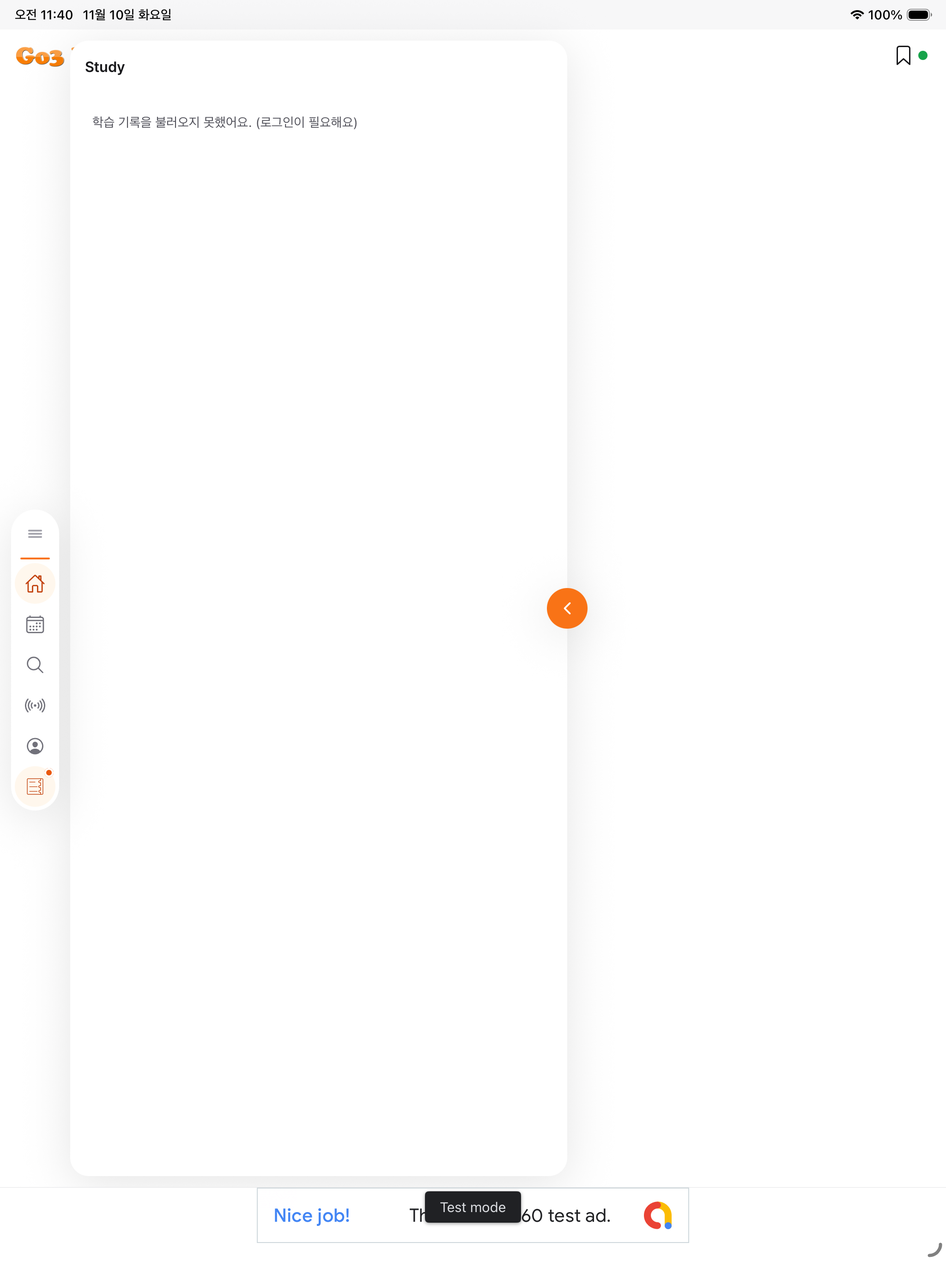
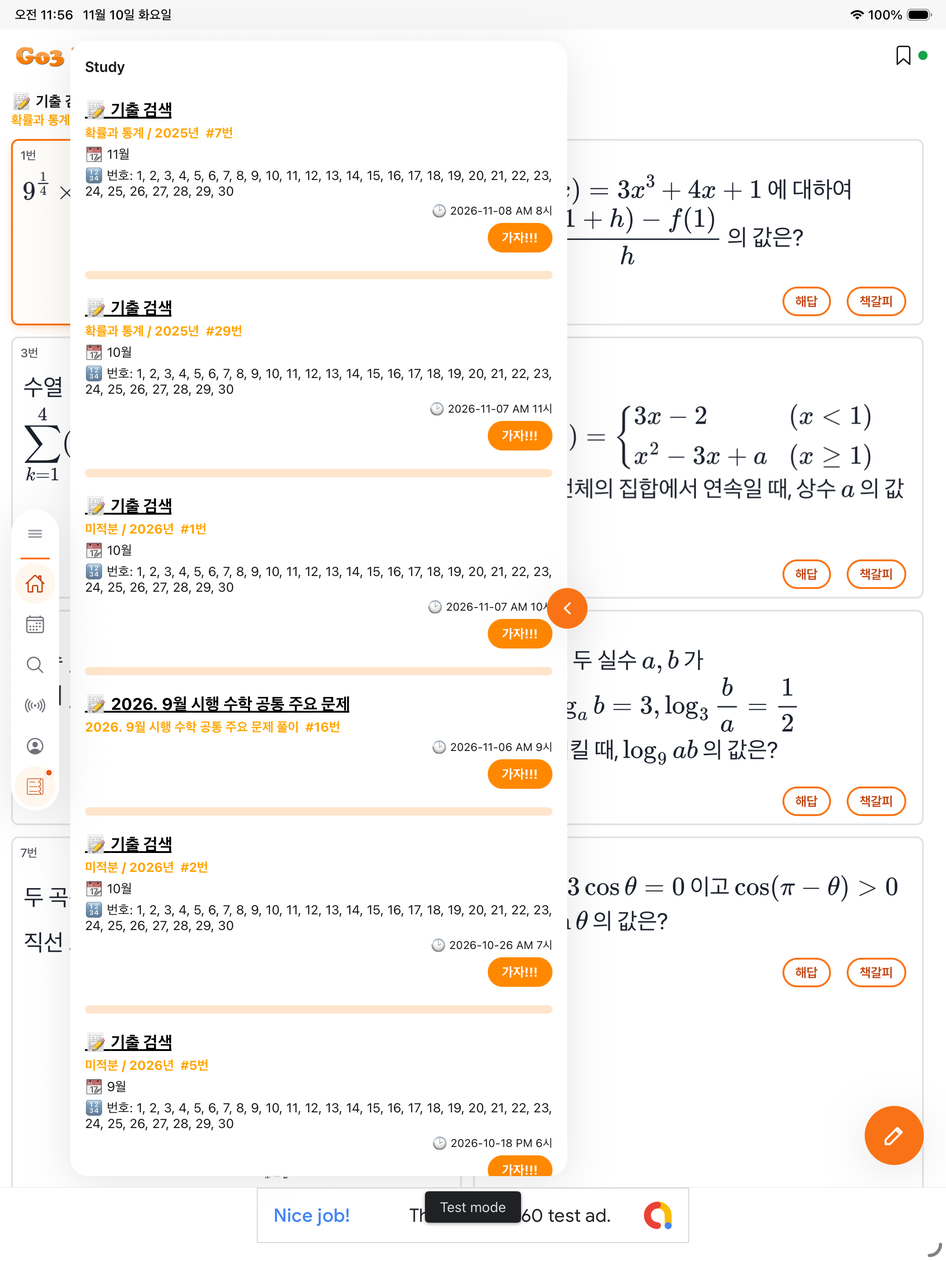
docs(ui-redesign): add logged-in iPad simulator captures (canvas, sheets, modals) and link captures in the diagram

diff --git a/docs/ui-structure/ui-structure.html b/docs/ui-structure/ui-structure.html
@@ -108,6 +108,10 @@
   <h2>6. 기계 판독용 JSON</h2>
   <div class="tools"><button type="button" id="dlJson">ui-structure.json 내려받기</button><span class="hint">스펙 §5.2 형식. 위 표와 같은 데이터에서 만든다.</span></div>
   <details><summary>JSON 보기</summary><pre id="jsonSrc"></pre></details>
+
+  <h2>7. 캡처 (시뮬레이터)</h2>
+  <p class="desc">모두 iOS 26.4 시뮬레이터 캡처다. 실기기 캡처는 없다. 목록과 조건은 <code>docs/ui-redesign/captures/01/manifest.md</code>.</p>
+  <div style="display:grid;grid-template-columns:repeat(auto-fill,minmax(180px,1fr));gap:12px"><figure style="margin:0"><a href="../ui-redesign/captures/01/ipad-sim-welcome-before.png"><img loading="lazy" src="../ui-redesign/captures/01/ipad-sim-welcome-before.png" alt="Welcome (로그인)" style="width:100%;border:1px solid var(--line);border-radius:8px"></a><figcaption style="font-size:12px"><code>welcome</code> · Welcome (로그인) · ipad-sim</figcaption></figure><figure style="margin:0"><a href="../ui-redesign/captures/01/phone-sim-welcome-before.png"><img loading="lazy" src="../ui-redesign/captures/01/phone-sim-welcome-before.png" alt="Welcome (로그인)" style="width:100%;border:1px solid var(--line);border-radius:8px"></a><figcaption style="font-size:12px"><code>welcome</code> · Welcome (로그인) · phone-sim</figcaption></figure><figure style="margin:0"><a href="../ui-redesign/captures/01/ipad-sim-notebook-before.png"><img loading="lazy" src="../ui-redesign/captures/01/ipad-sim-notebook-before.png" alt="문제 풀이 캔버스" style="width:100%;border:1px solid var(--line);border-radius:8px"></a><figcaption style="font-size:12px"><code>notebook</code> · 문제 풀이 캔버스 · ipad-sim</figcaption></figure><figure style="margin:0"><a href="../ui-redesign/captures/01/ipad-sim-notebook-landscape-before.png"><img loading="lazy" src="../ui-redesign/captures/01/ipad-sim-notebook-landscape-before.png" alt="문제 풀이 캔버스 (가로)" style="width:100%;border:1px solid var(--line);border-radius:8px"></a><figcaption style="font-size:12px"><code>notebook</code> · 문제 풀이 캔버스 (가로) · ipad-sim</figcaption></figure><figure style="margin:0"><a href="../ui-redesign/captures/01/ipad-sim-agent_home-before.png"><img loading="lazy" src="../ui-redesign/captures/01/ipad-sim-agent_home-before.png" alt="에이전트 홈 (Stage)" style="width:100%;border:1px solid var(--line);border-radius:8px"></a><figcaption style="font-size:12px"><code>agent_home</code> · 에이전트 홈 (Stage) · ipad-sim</figcaption></figure><figure style="margin:0"><a href="../ui-redesign/captures/01/phone-sim-profile-before.png"><img loading="lazy" src="../ui-redesign/captures/01/phone-sim-profile-before.png" alt="내 정보 탭" style="width:100%;border:1px solid var(--line);border-radius:8px"></a><figcaption style="font-size:12px"><code>profile</code> · 내 정보 탭 · phone-sim</figcaption></figure><figure style="margin:0"><a href="../ui-redesign/captures/01/phone-sim-timeline_index-before.png"><img loading="lazy" src="../ui-redesign/captures/01/phone-sim-timeline_index-before.png" alt="History" style="width:100%;border:1px solid var(--line);border-radius:8px"></a><figcaption style="font-size:12px"><code>timeline_index</code> · History · phone-sim</figcaption></figure><figure style="margin:0"><a href="../ui-redesign/captures/01/phone-sim-search_index-before.png"><img loading="lazy" src="../ui-redesign/captures/01/phone-sim-search_index-before.png" alt="검색" style="width:100%;border:1px solid var(--line);border-radius:8px"></a><figcaption style="font-size:12px"><code>search_index</code> · 검색 · phone-sim</figcaption></figure><figure style="margin:0"><a href="../ui-redesign/captures/01/phone-sim-chat_index-before.png"><img loading="lazy" src="../ui-redesign/captures/01/phone-sim-chat_index-before.png" alt="Study Log" style="width:100%;border:1px solid var(--line);border-radius:8px"></a><figcaption style="font-size:12px"><code>chat_index</code> · Study Log · phone-sim</figcaption></figure><figure style="margin:0"><a href="../ui-redesign/captures/01/phone-sim-diary_index-before.png"><img loading="lazy" src="../ui-redesign/captures/01/phone-sim-diary_index-before.png" alt="Diary" style="width:100%;border:1px solid var(--line);border-radius:8px"></a><figcaption style="font-size:12px"><code>diary_index</code> · Diary · phone-sim</figcaption></figure><figure style="margin:0"><a href="../ui-redesign/captures/01/ipad-sim-chat_rail-before.png"><img loading="lazy" src="../ui-redesign/captures/01/ipad-sim-chat_rail-before.png" alt="세로 pill 툴바" style="width:100%;border:1px solid var(--line);border-radius:8px"></a><figcaption style="font-size:12px"><code>chat_rail</code> · 세로 pill 툴바 · ipad-sim</figcaption></figure><figure style="margin:0"><a href="../ui-redesign/captures/01/ipad-sim-dock_timeline-before.png"><img loading="lazy" src="../ui-redesign/captures/01/ipad-sim-dock_timeline-before.png" alt="Study dock" style="width:100%;border:1px solid var(--line);border-radius:8px"></a><figcaption style="font-size:12px"><code>dock_timeline</code> · Study dock · ipad-sim</figcaption></figure><figure style="margin:0"><a href="../ui-redesign/captures/01/ipad-sim-dock_notice-before.png"><img loading="lazy" src="../ui-redesign/captures/01/ipad-sim-dock_notice-before.png" alt="Diary dock" style="width:100%;border:1px solid var(--line);border-radius:8px"></a><figcaption style="font-size:12px"><code>dock_notice</code> · Diary dock · ipad-sim</figcaption></figure><figure style="margin:0"><a href="../ui-redesign/captures/01/ipad-sim-dock_search-before.png"><img loading="lazy" src="../ui-redesign/captures/01/ipad-sim-dock_search-before.png" alt="검색 dock" style="width:100%;border:1px solid var(--line);border-radius:8px"></a><figcaption style="font-size:12px"><code>dock_search</code> · 검색 dock · ipad-sim</figcaption></figure><figure style="margin:0"><a href="../ui-redesign/captures/01/ipad-sim-dock_profile-before.png"><img loading="lazy" src="../ui-redesign/captures/01/ipad-sim-dock_profile-before.png" alt="내 정보 dock" style="width:100%;border:1px solid var(--line);border-radius:8px"></a><figcaption style="font-size:12px"><code>dock_profile</code> · 내 정보 dock · ipad-sim</figcaption></figure><figure style="margin:0"><a href="../ui-redesign/captures/01/ipad-sim-dock_chat-before.png"><img loading="lazy" src="../ui-redesign/captures/01/ipad-sim-dock_chat-before.png" alt="Study Log dock" style="width:100%;border:1px solid var(--line);border-radius:8px"></a><figcaption style="font-size:12px"><code>dock_chat</code> · Study Log dock · ipad-sim</figcaption></figure><figure style="margin:0"><a href="../ui-redesign/captures/01/ipad-sim-canvas_toolbar-before.png"><img loading="lazy" src="../ui-redesign/captures/01/ipad-sim-canvas_toolbar-before.png" alt="캔버스 하단 툴바" style="width:100%;border:1px solid var(--line);border-radius:8px"></a><figcaption style="font-size:12px"><code>canvas_toolbar</code> · 캔버스 하단 툴바 · ipad-sim</figcaption></figure><figure style="margin:0"><a href="../ui-redesign/captures/01/ipad-sim-concept_sheet-before.png"><img loading="lazy" src="../ui-redesign/captures/01/ipad-sim-concept_sheet-before.png" alt="개념 검색 시트" style="width:100%;border:1px solid var(--line);border-radius:8px"></a><figcaption style="font-size:12px"><code>concept_sheet</code> · 개념 검색 시트 · ipad-sim</figcaption></figure><figure style="margin:0"><a href="../ui-redesign/captures/01/ipad-sim-clear_confirm-before.png"><img loading="lazy" src="../ui-redesign/captures/01/ipad-sim-clear_confirm-before.png" alt="전체 지우기 확인" style="width:100%;border:1px solid var(--line);border-radius:8px"></a><figcaption style="font-size:12px"><code>clear_confirm</code> · 전체 지우기 확인 · ipad-sim</figcaption></figure><figure style="margin:0"><a href="../ui-redesign/captures/01/ipad-sim-pencil_popover-before.png"><img loading="lazy" src="../ui-redesign/captures/01/ipad-sim-pencil_popover-before.png" alt="펜 설정 팝오버" style="width:100%;border:1px solid var(--line);border-radius:8px"></a><figcaption style="font-size:12px"><code>pencil_popover</code> · 펜 설정 팝오버 · ipad-sim</figcaption></figure><figure style="margin:0"><a href="../ui-redesign/captures/01/ipad-sim-concept_detail-before.png"><img loading="lazy" src="../ui-redesign/captures/01/ipad-sim-concept_detail-before.png" alt="개념 설명 모달" style="width:100%;border:1px solid var(--line);border-radius:8px"></a><figcaption style="font-size:12px"><code>concept_detail</code> · 개념 설명 모달 · ipad-sim</figcaption></figure><figure style="margin:0"><a href="../ui-redesign/captures/01/ipad-sim-nb_list_modal-before.png"><img loading="lazy" src="../ui-redesign/captures/01/ipad-sim-nb_list_modal-before.png" alt="문제 목록 모달" style="width:100%;border:1px solid var(--line);border-radius:8px"></a><figcaption style="font-size:12px"><code>nb_list_modal</code> · 문제 목록 모달 · ipad-sim</figcaption></figure><figure style="margin:0"><a href="../ui-redesign/captures/01/ipad-sim-nb_answer_sheet-before.png"><img loading="lazy" src="../ui-redesign/captures/01/ipad-sim-nb_answer_sheet-before.png" alt="해답 시트" style="width:100%;border:1px solid var(--line);border-radius:8px"></a><figcaption style="font-size:12px"><code>nb_answer_sheet</code> · 해답 시트 · ipad-sim</figcaption></figure><figure style="margin:0"><a href="../ui-redesign/captures/01/ipad-sim-nb_workout_sheet-before.png"><img loading="lazy" src="../ui-redesign/captures/01/ipad-sim-nb_workout_sheet-before.png" alt="내 풀이 시트" style="width:100%;border:1px solid var(--line);border-radius:8px"></a><figcaption style="font-size:12px"><code>nb_workout_sheet</code> · 내 풀이 시트 · ipad-sim</figcaption></figure><figure style="margin:0"><a href="../ui-redesign/captures/01/ipad-sim-agent_home-closed-before.png"><img loading="lazy" src="../ui-redesign/captures/01/ipad-sim-agent_home-closed-before.png" alt="에이전트 홈 (dock 닫힘)" style="width:100%;border:1px solid var(--line);border-radius:8px"></a><figcaption style="font-size:12px"><code>agent_home</code> · 에이전트 홈 (dock 닫힘) · ipad-sim</figcaption></figure><figure style="margin:0"><a href="../ui-redesign/captures/01/ipad-sim-agent_home-problems-before.png"><img loading="lazy" src="../ui-redesign/captures/01/ipad-sim-agent_home-problems-before.png" alt="에이전트 홈 (Stage 문제 목록)" style="width:100%;border:1px solid var(--line);border-radius:8px"></a><figcaption style="font-size:12px"><code>agent_home</code> · 에이전트 홈 (Stage 문제 목록) · ipad-sim</figcaption></figure></div>
 </main>
 
 <script src="https://cdn.jsdelivr.net/npm/mermaid@11.4.1/dist/mermaid.min.js"></script>

diff --git a/docs/ui-redesign/captures/01/manifest.md b/docs/ui-redesign/captures/01/manifest.md
@@ -14,9 +14,10 @@
 ## 조건
 
 - 빌드: `feat/study-note` @ `76b99e3`의 Debug 빌드(`xcodebuild`, `IPHONEOS_DEPLOYMENT_TARGET=15.1` 덮어쓰기), Metro 개발 서버 연결.
-- 로그인: 개발 빌드 전용 "로그인 없이 둘러보기". 계정 데이터가 없어 목록 화면은 빈 상태·오류 문구가 찍혔다. 하단의 광고 띠는 테스트 광고다.
+- 로그인: 1차는 개발 빌드 전용 "로그인 없이 둘러보기"(Phone 6장, iPad의 로그인·홈·Diary·검색·내 정보·Study Log dock). 계정 데이터가 없어 빈 상태·오류 문구가 찍혔다. 2차는 사용자가 시뮬레이터에 직접 로그인한 뒤 iPad에서 Study dock, 문제 목록, 캔버스와 그 오버레이를 찍었다. 하단의 광고 띠는 테스트 광고다.
+- 캔버스에서는 필기·저장·전체 지우기 확인을 하지 않았다. 문제 목록을 연 것 외에 계정 데이터를 바꾸는 동작은 없다.
 - iOS 27.2 시뮬레이터에서는 앱이 실행 직후 종료된다(`UIApplicationEvaluateRuntimeIssueForNoSceneLifecycleAdoption`). 그래서 iOS 26.4 시뮬레이터를 썼다.
-- `agent_home`, `chat_rail`, `dock_timeline`은 같은 화면 한 장이다(홈 진입 시 Study dock이 기본으로 열린다).
+- `agent_home`과 `chat_rail`은 같은 화면 한 장이다. `notebook`과 `canvas_toolbar`도 같은 한 장이다.
 
 ## 목록
 
@@ -24,73 +25,74 @@
 |---|---|---|---|---|---|---|---|
 | welcome | Welcome (로그인) | ipad-sim | 세로 | `ipad-sim-welcome-before.png` | 시뮬레이터 | 완료 | — |
 | welcome | Welcome (로그인) | phone-sim | 세로 | `phone-sim-welcome-before.png` | 시뮬레이터 | 완료 | — |
-| auth_callback | OAuth 콜백 | ipad-sim | 세로 | `ipad-sim-auth_callback-before.png` | 시뮬레이터 | blocked | 미촬영: 게스트 모드에는 계정 데이터가 없다(iPad 검색 → "가자!!!"에서 문제 목록이 뜨지 않음을 확인). 로그인 후 다시 시도 |
-| auth_callback | OAuth 콜백 | phone-sim | 세로 | `phone-sim-auth_callback-before.png` | 시뮬레이터 | blocked | 미촬영: 게스트 모드에는 계정 데이터가 없다(iPad 검색 → "가자!!!"에서 문제 목록이 뜨지 않음을 확인). 로그인 후 다시 시도 |
-| public_questions | 공개 문제 목록 | ipad-sim | 세로 | `ipad-sim-public_questions-before.png` | 시뮬레이터 | blocked | 미촬영: 게스트 모드에는 계정 데이터가 없다(iPad 검색 → "가자!!!"에서 문제 목록이 뜨지 않음을 확인). 로그인 후 다시 시도 |
-| public_questions | 공개 문제 목록 | phone-sim | 세로 | `phone-sim-public_questions-before.png` | 시뮬레이터 | blocked | 미촬영: 게스트 모드에는 계정 데이터가 없다(iPad 검색 → "가자!!!"에서 문제 목록이 뜨지 않음을 확인). 로그인 후 다시 시도 |
-| public_solution | 공개 해답 | ipad-sim | 세로 | `ipad-sim-public_solution-before.png` | 시뮬레이터 | blocked | 미촬영: 게스트 모드에는 계정 데이터가 없다(iPad 검색 → "가자!!!"에서 문제 목록이 뜨지 않음을 확인). 로그인 후 다시 시도 |
-| public_solution | 공개 해답 | phone-sim | 세로 | `phone-sim-public_solution-before.png` | 시뮬레이터 | blocked | 미촬영: 게스트 모드에는 계정 데이터가 없다(iPad 검색 → "가자!!!"에서 문제 목록이 뜨지 않음을 확인). 로그인 후 다시 시도 |
-| notebook | 문제 풀이 캔버스 | ipad-sim | 세로 | `ipad-sim-notebook-before.png` | 시뮬레이터 | blocked | 미촬영: 게스트 모드에는 계정 데이터가 없다(iPad 검색 → "가자!!!"에서 문제 목록이 뜨지 않음을 확인). 로그인 후 다시 시도 |
-| notebook | 문제 풀이 캔버스 (가로) | ipad-sim | 가로 | `ipad-sim-notebook-landscape-before.png` | 시뮬레이터 | blocked | 미촬영: 게스트 모드에는 계정 데이터가 없다(iPad 검색 → "가자!!!"에서 문제 목록이 뜨지 않음을 확인). 로그인 후 다시 시도 |
-| topic_live | 주제 실황 수업 | ipad-sim | 세로 | `ipad-sim-topic_live-before.png` | 시뮬레이터 | blocked | 미촬영: 게스트 모드에는 계정 데이터가 없다(iPad 검색 → "가자!!!"에서 문제 목록이 뜨지 않음을 확인). 로그인 후 다시 시도 |
-| topic_live | 주제 실황 수업 (가로) | ipad-sim | 가로 | `ipad-sim-topic_live-landscape-before.png` | 시뮬레이터 | blocked | 미촬영: 게스트 모드에는 계정 데이터가 없다(iPad 검색 → "가자!!!"에서 문제 목록이 뜨지 않음을 확인). 로그인 후 다시 시도 |
-| hotline | 선생님 수업 | ipad-sim | 세로 | `ipad-sim-hotline-before.png` | 시뮬레이터 | blocked | 미촬영: 게스트 모드에는 계정 데이터가 없다(iPad 검색 → "가자!!!"에서 문제 목록이 뜨지 않음을 확인). 로그인 후 다시 시도 |
-| hotline | 선생님 수업 (가로) | ipad-sim | 가로 | `ipad-sim-hotline-landscape-before.png` | 시뮬레이터 | blocked | 미촬영: 게스트 모드에는 계정 데이터가 없다(iPad 검색 → "가자!!!"에서 문제 목록이 뜨지 않음을 확인). 로그인 후 다시 시도 |
+| auth_callback | OAuth 콜백 | ipad-sim | 세로 | `ipad-sim-auth_callback-before.png` | 시뮬레이터 | blocked | 미촬영: 이번 회차에서 진입하지 않았다 |
+| auth_callback | OAuth 콜백 | phone-sim | 세로 | `phone-sim-auth_callback-before.png` | 시뮬레이터 | blocked | 미촬영: 이번 회차에서 진입하지 않았다 |
+| public_questions | 공개 문제 목록 | ipad-sim | 세로 | `ipad-sim-public_questions-before.png` | 시뮬레이터 | blocked | 미촬영: 이번 회차에서 진입하지 않았다 |
+| public_questions | 공개 문제 목록 | phone-sim | 세로 | `phone-sim-public_questions-before.png` | 시뮬레이터 | blocked | 미촬영: 이번 회차에서 진입하지 않았다 |
+| public_solution | 공개 해답 | ipad-sim | 세로 | `ipad-sim-public_solution-before.png` | 시뮬레이터 | blocked | 미촬영: 이번 회차에서 진입하지 않았다 |
+| public_solution | 공개 해답 | phone-sim | 세로 | `phone-sim-public_solution-before.png` | 시뮬레이터 | blocked | 미촬영: 이번 회차에서 진입하지 않았다 |
+| notebook | 문제 풀이 캔버스 | ipad-sim | 세로 | `ipad-sim-notebook-before.png` | 시뮬레이터 | 완료 | — |
+| notebook | 문제 풀이 캔버스 (가로) | ipad-sim | 가로 | `ipad-sim-notebook-landscape-before.png` | 시뮬레이터 | 완료 | — |
+| topic_live | 주제 실황 수업 | ipad-sim | 세로 | `ipad-sim-topic_live-before.png` | 시뮬레이터 | blocked | 미촬영: 이번 회차에서 진입하지 않았다 |
+| topic_live | 주제 실황 수업 (가로) | ipad-sim | 가로 | `ipad-sim-topic_live-landscape-before.png` | 시뮬레이터 | blocked | 미촬영: 이번 회차에서 진입하지 않았다 |
+| hotline | 선생님 수업 | ipad-sim | 세로 | `ipad-sim-hotline-before.png` | 시뮬레이터 | blocked | 미촬영: 이번 회차에서 진입하지 않았다 |
+| hotline | 선생님 수업 (가로) | ipad-sim | 가로 | `ipad-sim-hotline-landscape-before.png` | 시뮬레이터 | blocked | 미촬영: 이번 회차에서 진입하지 않았다 |
 | agent_home | 에이전트 홈 (Stage) | ipad-sim | 세로 | `ipad-sim-agent_home-before.png` | 시뮬레이터 | 완료 | — |
 | profile | 내 정보 탭 | phone-sim | 세로 | `phone-sim-profile-before.png` | 시뮬레이터 | 완료 | — |
 | timeline_index | History | phone-sim | 세로 | `phone-sim-timeline_index-before.png` | 시뮬레이터 | 완료 | — |
-| timeline_problems | 문제 목록 | phone-sim | 세로 | `phone-sim-timeline_problems-before.png` | 시뮬레이터 | blocked | 미촬영: 게스트 모드에는 계정 데이터가 없다(iPad 검색 → "가자!!!"에서 문제 목록이 뜨지 않음을 확인). 로그인 후 다시 시도 |
+| timeline_problems | 문제 목록 | phone-sim | 세로 | `phone-sim-timeline_problems-before.png` | 시뮬레이터 | blocked | 미촬영: 이번 회차에서 진입하지 않았다 |
 | timeline_topic | 주제 문제 | phone-sim | 세로 | `phone-sim-timeline_topic-before.png` | 시뮬레이터 | blocked | 진입 경로 없음(orphan) |
-| timeline_solution | 해답 | phone-sim | 세로 | `phone-sim-timeline_solution-before.png` | 시뮬레이터 | blocked | 미촬영: 게스트 모드에는 계정 데이터가 없다(iPad 검색 → "가자!!!"에서 문제 목록이 뜨지 않음을 확인). 로그인 후 다시 시도 |
+| timeline_solution | 해답 | phone-sim | 세로 | `phone-sim-timeline_solution-before.png` | 시뮬레이터 | blocked | 미촬영: 이번 회차에서 진입하지 않았다 |
 | search_index | 검색 | phone-sim | 세로 | `phone-sim-search_index-before.png` | 시뮬레이터 | 완료 | — |
-| search_problems | 문제 목록 | phone-sim | 세로 | `phone-sim-search_problems-before.png` | 시뮬레이터 | blocked | 미촬영: 게스트 모드에는 계정 데이터가 없다(iPad 검색 → "가자!!!"에서 문제 목록이 뜨지 않음을 확인). 로그인 후 다시 시도 |
-| search_topic | 주제 문제 | phone-sim | 세로 | `phone-sim-search_topic-before.png` | 시뮬레이터 | blocked | 미촬영: 게스트 모드에는 계정 데이터가 없다(iPad 검색 → "가자!!!"에서 문제 목록이 뜨지 않음을 확인). 로그인 후 다시 시도 |
-| search_solution | 해답 | phone-sim | 세로 | `phone-sim-search_solution-before.png` | 시뮬레이터 | blocked | 미촬영: 게스트 모드에는 계정 데이터가 없다(iPad 검색 → "가자!!!"에서 문제 목록이 뜨지 않음을 확인). 로그인 후 다시 시도 |
+| search_problems | 문제 목록 | phone-sim | 세로 | `phone-sim-search_problems-before.png` | 시뮬레이터 | blocked | 미촬영: 이번 회차에서 진입하지 않았다 |
+| search_topic | 주제 문제 | phone-sim | 세로 | `phone-sim-search_topic-before.png` | 시뮬레이터 | blocked | 미촬영: 이번 회차에서 진입하지 않았다 |
+| search_solution | 해답 | phone-sim | 세로 | `phone-sim-search_solution-before.png` | 시뮬레이터 | blocked | 미촬영: 이번 회차에서 진입하지 않았다 |
 | chat_index | Study Log | phone-sim | 세로 | `phone-sim-chat_index-before.png` | 시뮬레이터 | 완료 | — |
-| chat_problems | 문제 목록 | phone-sim | 세로 | `phone-sim-chat_problems-before.png` | 시뮬레이터 | blocked | 미촬영: 게스트 모드에는 계정 데이터가 없다(iPad 검색 → "가자!!!"에서 문제 목록이 뜨지 않음을 확인). 로그인 후 다시 시도 |
-| chat_topic | 주제 문제 | phone-sim | 세로 | `phone-sim-chat_topic-before.png` | 시뮬레이터 | blocked | 미촬영: 게스트 모드에는 계정 데이터가 없다(iPad 검색 → "가자!!!"에서 문제 목록이 뜨지 않음을 확인). 로그인 후 다시 시도 |
-| chat_solution | 해답 | phone-sim | 세로 | `phone-sim-chat_solution-before.png` | 시뮬레이터 | blocked | 미촬영: 게스트 모드에는 계정 데이터가 없다(iPad 검색 → "가자!!!"에서 문제 목록이 뜨지 않음을 확인). 로그인 후 다시 시도 |
+| chat_problems | 문제 목록 | phone-sim | 세로 | `phone-sim-chat_problems-before.png` | 시뮬레이터 | blocked | 미촬영: 이번 회차에서 진입하지 않았다 |
+| chat_topic | 주제 문제 | phone-sim | 세로 | `phone-sim-chat_topic-before.png` | 시뮬레이터 | blocked | 미촬영: 이번 회차에서 진입하지 않았다 |
+| chat_solution | 해답 | phone-sim | 세로 | `phone-sim-chat_solution-before.png` | 시뮬레이터 | blocked | 미촬영: 이번 회차에서 진입하지 않았다 |
 | diary_index | Diary | phone-sim | 세로 | `phone-sim-diary_index-before.png` | 시뮬레이터 | 완료 | — |
-| diary_day | 그날 풀이 기록 | phone-sim | 세로 | `phone-sim-diary_day-before.png` | 시뮬레이터 | blocked | 미촬영: 게스트 모드에는 계정 데이터가 없다(iPad 검색 → "가자!!!"에서 문제 목록이 뜨지 않음을 확인). 로그인 후 다시 시도 |
-| diary_solution | 답안 예시 | phone-sim | 세로 | `phone-sim-diary_solution-before.png` | 시뮬레이터 | blocked | 미촬영: 게스트 모드에는 계정 데이터가 없다(iPad 검색 → "가자!!!"에서 문제 목록이 뜨지 않음을 확인). 로그인 후 다시 시도 |
-| study_note_sheet | 학습장 시트 | ipad-sim | 세로 | `ipad-sim-study_note_sheet-before.png` | 시뮬레이터 | blocked | 미촬영: 게스트 모드에는 계정 데이터가 없다(iPad 검색 → "가자!!!"에서 문제 목록이 뜨지 않음을 확인). 로그인 후 다시 시도 |
-| study_note_sheet | 학습장 시트 | phone-sim | 세로 | `phone-sim-study_note_sheet-before.png` | 시뮬레이터 | blocked | 미촬영: 게스트 모드에는 계정 데이터가 없다(iPad 검색 → "가자!!!"에서 문제 목록이 뜨지 않음을 확인). 로그인 후 다시 시도 |
+| diary_day | 그날 풀이 기록 | phone-sim | 세로 | `phone-sim-diary_day-before.png` | 시뮬레이터 | blocked | 미촬영: 이번 회차에서 진입하지 않았다 |
+| diary_solution | 답안 예시 | phone-sim | 세로 | `phone-sim-diary_solution-before.png` | 시뮬레이터 | blocked | 미촬영: 이번 회차에서 진입하지 않았다 |
+| study_note_sheet | 학습장 시트 | ipad-sim | 세로 | `ipad-sim-study_note_sheet-before.png` | 시뮬레이터 | blocked | 로그인 상태의 Study dock 카드에 "학습장" 버튼이 보이지 않았고, 캔버스를 나간 뒤에도 시트가 뜨지 않았다 |
+| study_note_sheet | 학습장 시트 | phone-sim | 세로 | `phone-sim-study_note_sheet-before.png` | 시뮬레이터 | blocked | 미촬영: 이번 회차에서 진입하지 않았다 |
 | global_loading | 앱 차단 로딩 | ipad-sim | 세로 | `ipad-sim-global_loading-before.png` | 시뮬레이터 | blocked | 진입 경로 없음(orphan) |
 | global_loading | 앱 차단 로딩 | phone-sim | 세로 | `phone-sim-global_loading-before.png` | 시뮬레이터 | blocked | 진입 경로 없음(orphan) |
-| tablet_launch | 태블릿 런치 로고 | ipad-sim | 세로 | `ipad-sim-tablet_launch-before.png` | 시뮬레이터 | blocked | 미촬영: 게스트 모드에는 계정 데이터가 없다(iPad 검색 → "가자!!!"에서 문제 목록이 뜨지 않음을 확인). 로그인 후 다시 시도 |
+| tablet_launch | 태블릿 런치 로고 | ipad-sim | 세로 | `ipad-sim-tablet_launch-before.png` | 시뮬레이터 | blocked | 미촬영: 이번 회차에서 진입하지 않았다 |
 | chat_rail | 세로 pill 툴바 | ipad-sim | 세로 | `ipad-sim-chat_rail-before.png` | 시뮬레이터 | 완료 | — |
 | dock_timeline | Study dock | ipad-sim | 세로 | `ipad-sim-dock_timeline-before.png` | 시뮬레이터 | 완료 | — |
 | dock_notice | Diary dock | ipad-sim | 세로 | `ipad-sim-dock_notice-before.png` | 시뮬레이터 | 완료 | — |
 | dock_search | 검색 dock | ipad-sim | 세로 | `ipad-sim-dock_search-before.png` | 시뮬레이터 | 완료 | — |
-| dock_live | 실황 수업 dock | ipad-sim | 세로 | `ipad-sim-dock_live-before.png` | 시뮬레이터 | blocked | 미촬영: 게스트 모드에는 계정 데이터가 없다(iPad 검색 → "가자!!!"에서 문제 목록이 뜨지 않음을 확인). 로그인 후 다시 시도 |
+| dock_live | 실황 수업 dock | ipad-sim | 세로 | `ipad-sim-dock_live-before.png` | 시뮬레이터 | blocked | 미촬영: 이번 회차에서 진입하지 않았다 |
 | dock_profile | 내 정보 dock | ipad-sim | 세로 | `ipad-sim-dock_profile-before.png` | 시뮬레이터 | 완료 | — |
 | dock_chat | Study Log dock | ipad-sim | 세로 | `ipad-sim-dock_chat-before.png` | 시뮬레이터 | 완료 | — |
-| agent_toast | 튜터·에이전트 토스트 | ipad-sim | 세로 | `ipad-sim-agent_toast-before.png` | 시뮬레이터 | blocked | 미촬영: 게스트 모드에는 계정 데이터가 없다(iPad 검색 → "가자!!!"에서 문제 목록이 뜨지 않음을 확인). 로그인 후 다시 시도 |
-| canvas_toolbar | 캔버스 하단 툴바 | ipad-sim | 세로 | `ipad-sim-canvas_toolbar-before.png` | 시뮬레이터 | blocked | 미촬영: 게스트 모드에는 계정 데이터가 없다(iPad 검색 → "가자!!!"에서 문제 목록이 뜨지 않음을 확인). 로그인 후 다시 시도 |
-| concept_sheet | 개념 검색 시트 | ipad-sim | 세로 | `ipad-sim-concept_sheet-before.png` | 시뮬레이터 | blocked | 미촬영: 게스트 모드에는 계정 데이터가 없다(iPad 검색 → "가자!!!"에서 문제 목록이 뜨지 않음을 확인). 로그인 후 다시 시도 |
-| clear_confirm | 전체 지우기 확인 | ipad-sim | 세로 | `ipad-sim-clear_confirm-before.png` | 시뮬레이터 | blocked | 미촬영: 게스트 모드에는 계정 데이터가 없다(iPad 검색 → "가자!!!"에서 문제 목록이 뜨지 않음을 확인). 로그인 후 다시 시도 |
-| landscape_notice | 가로 모드 안내 | ipad-sim | 세로 | `ipad-sim-landscape_notice-before.png` | 시뮬레이터 | blocked | 미촬영: 게스트 모드에는 계정 데이터가 없다(iPad 검색 → "가자!!!"에서 문제 목록이 뜨지 않음을 확인). 로그인 후 다시 시도 |
-| pencil_popover | 펜 설정 팝오버 | ipad-sim | 세로 | `ipad-sim-pencil_popover-before.png` | 시뮬레이터 | blocked | 미촬영: 게스트 모드에는 계정 데이터가 없다(iPad 검색 → "가자!!!"에서 문제 목록이 뜨지 않음을 확인). 로그인 후 다시 시도 |
-| concept_detail | 개념 설명 모달 | ipad-sim | 세로 | `ipad-sim-concept_detail-before.png` | 시뮬레이터 | blocked | 미촬영: 게스트 모드에는 계정 데이터가 없다(iPad 검색 → "가자!!!"에서 문제 목록이 뜨지 않음을 확인). 로그인 후 다시 시도 |
-| concept_detail | 개념 설명 모달 | phone-sim | 세로 | `phone-sim-concept_detail-before.png` | 시뮬레이터 | blocked | 미촬영: 게스트 모드에는 계정 데이터가 없다(iPad 검색 → "가자!!!"에서 문제 목록이 뜨지 않음을 확인). 로그인 후 다시 시도 |
-| name_edit_modal | 이름 변경 | ipad-sim | 세로 | `ipad-sim-name_edit_modal-before.png` | 시뮬레이터 | blocked | 미촬영: 게스트 모드에는 계정 데이터가 없다(iPad 검색 → "가자!!!"에서 문제 목록이 뜨지 않음을 확인). 로그인 후 다시 시도 |
-| name_edit_modal | 이름 변경 | phone-sim | 세로 | `phone-sim-name_edit_modal-before.png` | 시뮬레이터 | blocked | 미촬영: 게스트 모드에는 계정 데이터가 없다(iPad 검색 → "가자!!!"에서 문제 목록이 뜨지 않음을 확인). 로그인 후 다시 시도 |
-| pdf_viewer | 사서함 PDF | ipad-sim | 세로 | `ipad-sim-pdf_viewer-before.png` | 시뮬레이터 | blocked | 미촬영: 게스트 모드에는 계정 데이터가 없다(iPad 검색 → "가자!!!"에서 문제 목록이 뜨지 않음을 확인). 로그인 후 다시 시도 |
-| pdf_viewer | 사서함 PDF | phone-sim | 세로 | `phone-sim-pdf_viewer-before.png` | 시뮬레이터 | blocked | 미촬영: 게스트 모드에는 계정 데이터가 없다(iPad 검색 → "가자!!!"에서 문제 목록이 뜨지 않음을 확인). 로그인 후 다시 시도 |
-| upload_alert | 풀이 업로드 결과 | phone-sim | 세로 | `phone-sim-upload_alert-before.png` | 시뮬레이터 | blocked | 미촬영: 게스트 모드에는 계정 데이터가 없다(iPad 검색 → "가자!!!"에서 문제 목록이 뜨지 않음을 확인). 로그인 후 다시 시도 |
-| bookmark_alert | 책갈피 결과 | phone-sim | 세로 | `phone-sim-bookmark_alert-before.png` | 시뮬레이터 | blocked | 미촬영: 게스트 모드에는 계정 데이터가 없다(iPad 검색 → "가자!!!"에서 문제 목록이 뜨지 않음을 확인). 로그인 후 다시 시도 |
-| quiz_modal | 실황 퀴즈 | ipad-sim | 세로 | `ipad-sim-quiz_modal-before.png` | 시뮬레이터 | blocked | 미촬영: 게스트 모드에는 계정 데이터가 없다(iPad 검색 → "가자!!!"에서 문제 목록이 뜨지 않음을 확인). 로그인 후 다시 시도 |
-| nb_list_modal | 문제 목록 모달 | ipad-sim | 세로 | `ipad-sim-nb_list_modal-before.png` | 시뮬레이터 | blocked | 미촬영: 게스트 모드에는 계정 데이터가 없다(iPad 검색 → "가자!!!"에서 문제 목록이 뜨지 않음을 확인). 로그인 후 다시 시도 |
-| nb_answer_sheet | 해답 시트 | ipad-sim | 세로 | `ipad-sim-nb_answer_sheet-before.png` | 시뮬레이터 | blocked | 미촬영: 게스트 모드에는 계정 데이터가 없다(iPad 검색 → "가자!!!"에서 문제 목록이 뜨지 않음을 확인). 로그인 후 다시 시도 |
-| nb_workout_sheet | 내 풀이 시트 | ipad-sim | 세로 | `ipad-sim-nb_workout_sheet-before.png` | 시뮬레이터 | blocked | 미촬영: 게스트 모드에는 계정 데이터가 없다(iPad 검색 → "가자!!!"에서 문제 목록이 뜨지 않음을 확인). 로그인 후 다시 시도 |
-| tl_list_modal | 수업 문제 목록 | ipad-sim | 세로 | `ipad-sim-tl_list_modal-before.png` | 시뮬레이터 | blocked | 미촬영: 게스트 모드에는 계정 데이터가 없다(iPad 검색 → "가자!!!"에서 문제 목록이 뜨지 않음을 확인). 로그인 후 다시 시도 |
-| tl_answer_sheet | 답안 예시 시트 | ipad-sim | 세로 | `ipad-sim-tl_answer_sheet-before.png` | 시뮬레이터 | blocked | 미촬영: 게스트 모드에는 계정 데이터가 없다(iPad 검색 → "가자!!!"에서 문제 목록이 뜨지 않음을 확인). 로그인 후 다시 시도 |
-| tl_toast | 상단 토스트 | ipad-sim | 세로 | `ipad-sim-tl_toast-before.png` | 시뮬레이터 | blocked | 미촬영: 게스트 모드에는 계정 데이터가 없다(iPad 검색 → "가자!!!"에서 문제 목록이 뜨지 않음을 확인). 로그인 후 다시 시도 |
-| tl_memo | 선생님 메모 | ipad-sim | 세로 | `ipad-sim-tl_memo-before.png` | 시뮬레이터 | blocked | 미촬영: 게스트 모드에는 계정 데이터가 없다(iPad 검색 → "가자!!!"에서 문제 목록이 뜨지 않음을 확인). 로그인 후 다시 시도 |
+| agent_toast | 튜터·에이전트 토스트 | ipad-sim | 세로 | `ipad-sim-agent_toast-before.png` | 시뮬레이터 | blocked | 미촬영: 이번 회차에서 진입하지 않았다 |
+| canvas_toolbar | 캔버스 하단 툴바 | ipad-sim | 세로 | `ipad-sim-canvas_toolbar-before.png` | 시뮬레이터 | 완료 | — |
+| concept_sheet | 개념 검색 시트 | ipad-sim | 세로 | `ipad-sim-concept_sheet-before.png` | 시뮬레이터 | 완료 | — |
+| clear_confirm | 전체 지우기 확인 | ipad-sim | 세로 | `ipad-sim-clear_confirm-before.png` | 시뮬레이터 | 완료 | — |
+| landscape_notice | 가로 모드 안내 | ipad-sim | 세로 | `ipad-sim-landscape_notice-before.png` | 시뮬레이터 | blocked | 캔버스를 가로로 돌려도 안내가 뜨지 않았다(`ipad-sim-notebook-landscape-before.png` 참고) |
+| pencil_popover | 펜 설정 팝오버 | ipad-sim | 세로 | `ipad-sim-pencil_popover-before.png` | 시뮬레이터 | 완료 | — |
+| concept_detail | 개념 설명 모달 | ipad-sim | 세로 | `ipad-sim-concept_detail-before.png` | 시뮬레이터 | 완료 | — |
+| concept_detail | 개념 설명 모달 | phone-sim | 세로 | `phone-sim-concept_detail-before.png` | 시뮬레이터 | blocked | 미촬영: 이번 회차에서 진입하지 않았다 |
+| name_edit_modal | 이름 변경 | ipad-sim | 세로 | `ipad-sim-name_edit_modal-before.png` | 시뮬레이터 | blocked | 미촬영: 이번 회차에서 진입하지 않았다 |
+| name_edit_modal | 이름 변경 | phone-sim | 세로 | `phone-sim-name_edit_modal-before.png` | 시뮬레이터 | blocked | 미촬영: 이번 회차에서 진입하지 않았다 |
+| pdf_viewer | 사서함 PDF | ipad-sim | 세로 | `ipad-sim-pdf_viewer-before.png` | 시뮬레이터 | blocked | 미촬영: 이번 회차에서 진입하지 않았다 |
+| pdf_viewer | 사서함 PDF | phone-sim | 세로 | `phone-sim-pdf_viewer-before.png` | 시뮬레이터 | blocked | 미촬영: 이번 회차에서 진입하지 않았다 |
+| upload_alert | 풀이 업로드 결과 | phone-sim | 세로 | `phone-sim-upload_alert-before.png` | 시뮬레이터 | blocked | 미촬영: 이번 회차에서 진입하지 않았다 |
+| bookmark_alert | 책갈피 결과 | phone-sim | 세로 | `phone-sim-bookmark_alert-before.png` | 시뮬레이터 | blocked | 미촬영: 이번 회차에서 진입하지 않았다 |
+| quiz_modal | 실황 퀴즈 | ipad-sim | 세로 | `ipad-sim-quiz_modal-before.png` | 시뮬레이터 | blocked | 미촬영: 이번 회차에서 진입하지 않았다 |
+| nb_list_modal | 문제 목록 모달 | ipad-sim | 세로 | `ipad-sim-nb_list_modal-before.png` | 시뮬레이터 | 완료 | — |
+| nb_answer_sheet | 해답 시트 | ipad-sim | 세로 | `ipad-sim-nb_answer_sheet-before.png` | 시뮬레이터 | 완료 | — |
+| nb_workout_sheet | 내 풀이 시트 | ipad-sim | 세로 | `ipad-sim-nb_workout_sheet-before.png` | 시뮬레이터 | 완료 | — |
+| tl_list_modal | 수업 문제 목록 | ipad-sim | 세로 | `ipad-sim-tl_list_modal-before.png` | 시뮬레이터 | blocked | 미촬영: 이번 회차에서 진입하지 않았다 |
+| tl_answer_sheet | 답안 예시 시트 | ipad-sim | 세로 | `ipad-sim-tl_answer_sheet-before.png` | 시뮬레이터 | blocked | 미촬영: 이번 회차에서 진입하지 않았다 |
+| tl_toast | 상단 토스트 | ipad-sim | 세로 | `ipad-sim-tl_toast-before.png` | 시뮬레이터 | blocked | 미촬영: 이번 회차에서 진입하지 않았다 |
+| tl_memo | 선생님 메모 | ipad-sim | 세로 | `ipad-sim-tl_memo-before.png` | 시뮬레이터 | blocked | 미촬영: 이번 회차에서 진입하지 않았다 |
 | tl_popup | 해설 팝업 | ipad-sim | 세로 | `ipad-sim-tl_popup-before.png` | 시뮬레이터 | blocked | 진입 경로 없음(orphan) |
-| hl_list_modal | 수업 문제 목록 | ipad-sim | 세로 | `ipad-sim-hl_list_modal-before.png` | 시뮬레이터 | blocked | 미촬영: 게스트 모드에는 계정 데이터가 없다(iPad 검색 → "가자!!!"에서 문제 목록이 뜨지 않음을 확인). 로그인 후 다시 시도 |
-| hl_answer_sheet | 답안 예시 시트 | ipad-sim | 세로 | `ipad-sim-hl_answer_sheet-before.png` | 시뮬레이터 | blocked | 미촬영: 게스트 모드에는 계정 데이터가 없다(iPad 검색 → "가자!!!"에서 문제 목록이 뜨지 않음을 확인). 로그인 후 다시 시도 |
-| hl_toast | 상단 토스트 | ipad-sim | 세로 | `ipad-sim-hl_toast-before.png` | 시뮬레이터 | blocked | 미촬영: 게스트 모드에는 계정 데이터가 없다(iPad 검색 → "가자!!!"에서 문제 목록이 뜨지 않음을 확인). 로그인 후 다시 시도 |
-| hl_memo | 선생님 메모 | ipad-sim | 세로 | `ipad-sim-hl_memo-before.png` | 시뮬레이터 | blocked | 미촬영: 게스트 모드에는 계정 데이터가 없다(iPad 검색 → "가자!!!"에서 문제 목록이 뜨지 않음을 확인). 로그인 후 다시 시도 |
+| hl_list_modal | 수업 문제 목록 | ipad-sim | 세로 | `ipad-sim-hl_list_modal-before.png` | 시뮬레이터 | blocked | 미촬영: 이번 회차에서 진입하지 않았다 |
+| hl_answer_sheet | 답안 예시 시트 | ipad-sim | 세로 | `ipad-sim-hl_answer_sheet-before.png` | 시뮬레이터 | blocked | 미촬영: 이번 회차에서 진입하지 않았다 |
+| hl_toast | 상단 토스트 | ipad-sim | 세로 | `ipad-sim-hl_toast-before.png` | 시뮬레이터 | blocked | 미촬영: 이번 회차에서 진입하지 않았다 |
+| hl_memo | 선생님 메모 | ipad-sim | 세로 | `ipad-sim-hl_memo-before.png` | 시뮬레이터 | blocked | 미촬영: 이번 회차에서 진입하지 않았다 |
 | hl_popup | 해설 팝업 | ipad-sim | 세로 | `ipad-sim-hl_popup-before.png` | 시뮬레이터 | blocked | 진입 경로 없음(orphan) |
 | agent_home | 에이전트 홈 (dock 닫힘) | ipad-sim | 세로 | `ipad-sim-agent_home-closed-before.png` | 시뮬레이터 | 완료 | — |
+| agent_home | 에이전트 홈 (Stage 문제 목록) | ipad-sim | 세로 | `ipad-sim-agent_home-problems-before.png` | 시뮬레이터 | 완료 | — |
